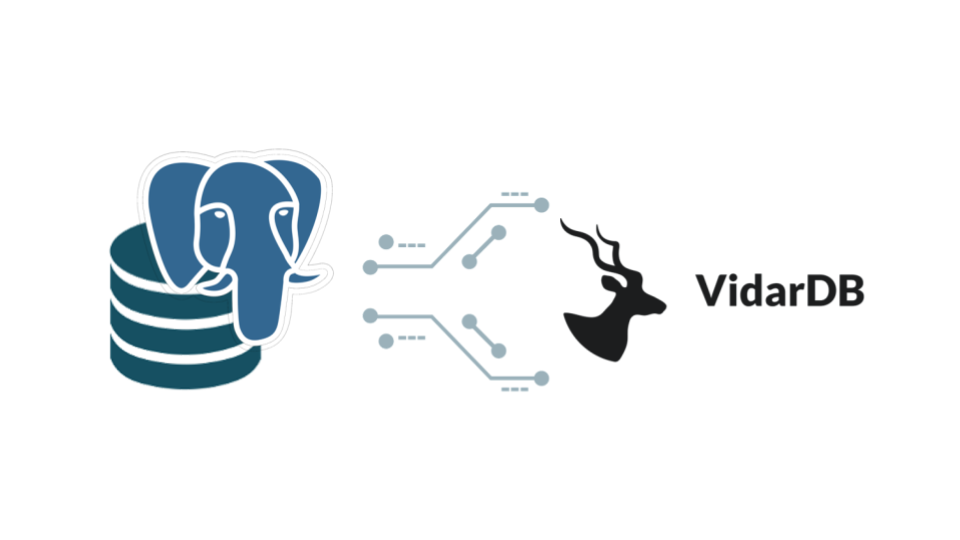
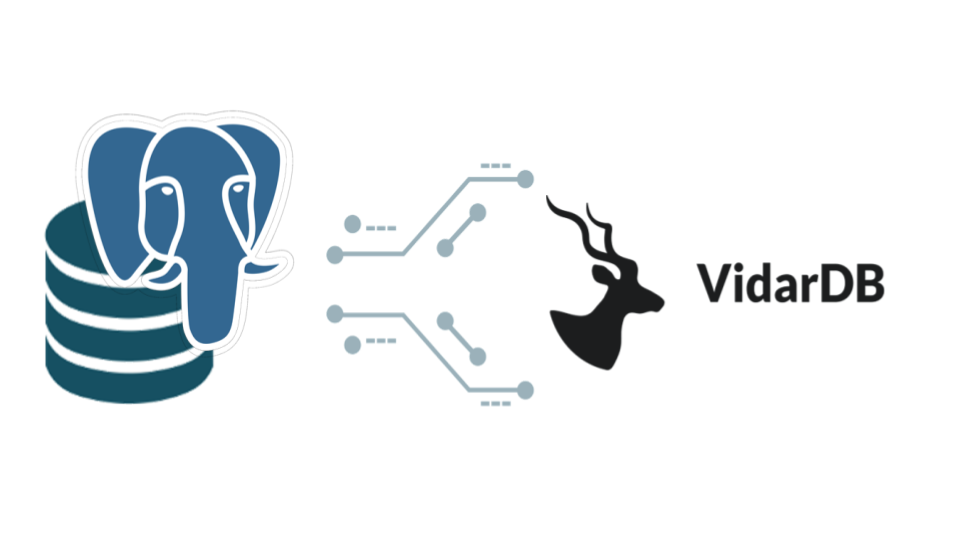
Landing page update.

Changed region(s): [[0.0312, 0.2074, 0.7188, 0.7704], [0.3438, 0.563, 0.5938, 0.7704], [0.7188, 0.4741, 0.9375, 0.5926]]

diff --git a/_sass/base/_navigation.scss b/_sass/base/_navigation.scss
@@ -19,15 +19,15 @@
         @include span-columns(2);
         @include font-size-rem(22);
         font-weight: 500;
-        text-indent: 65px;
-        line-height: rem(65);
+        text-indent: 55px;
+        line-height: rem(60);
         width: 27.5%;
         max-height: 5em;
         background-image: url('/assets/images/vidardb-head-white.svg');
         background-repeat: no-repeat;
         background-size: contain;
         background-position: bottom left;
-        margin-bottom: .9rem;
+        // margin-bottom: .9rem;
     }
 
     ul {
@@ -56,7 +56,7 @@
    --- */
 .site-nav {
     // Spacing within the global nav (i.e. height)
-    .site-container { padding: $base-spacing; }
+    .site-container { padding: $base-spacing/2 $base-spacing; }
 
     li {
         padding: rem(10) rem(3);

diff --git a/_sass/landing/base.scss b/_sass/landing/base.scss
@@ -375,12 +375,12 @@ body.landing {
             // Properly sizing the illustrations
             &:nth-child(1) img {
                 width: 80%;
-                margin-top: rem(40);
+                margin-top: rem(20);
                 // height: 50%;
             }
             &:nth-child(2) img {
                 width: 80%;
-                margin-top: rem(40);
+                margin-top: rem(20);
             }
             &:nth-child(3) img {
                 width: 80%;
@@ -413,7 +413,7 @@ body.landing {
                 margin-top: rem(40);
             }
             article:nth-child(3) img {
-                margin-top: rem(0);
+                margin-top: rem(40);
             }
             article:nth-child(4) img {
                 margin-top: rem(40);

diff --git a/index.html b/index.html
@@ -310,7 +310,7 @@ body_class: landing
             /* Add your own Mailchimp form style overrides in your site stylesheet or in this style block.
                We recommend moving this block and the preceding CSS link to the HEAD of your HTML file. */
         </style>
-        <div id="mc_embed_signup">
+        <div id="mc_embed_signup" style="display: none;">
             <form action="https://163.us5.list-manage.com/subscribe/post?u=4e94372016af846855c8b56a0&amp;id=6412871fc8" method="post" id="mc-embedded-subscribe-form" name="mc-embedded-subscribe-form" class="validate" target="_blank" novalidate>
                 <div id="mc_embed_signup_scroll">
                     <h1 class="no-anchor">Stay in the loop.</h1>
